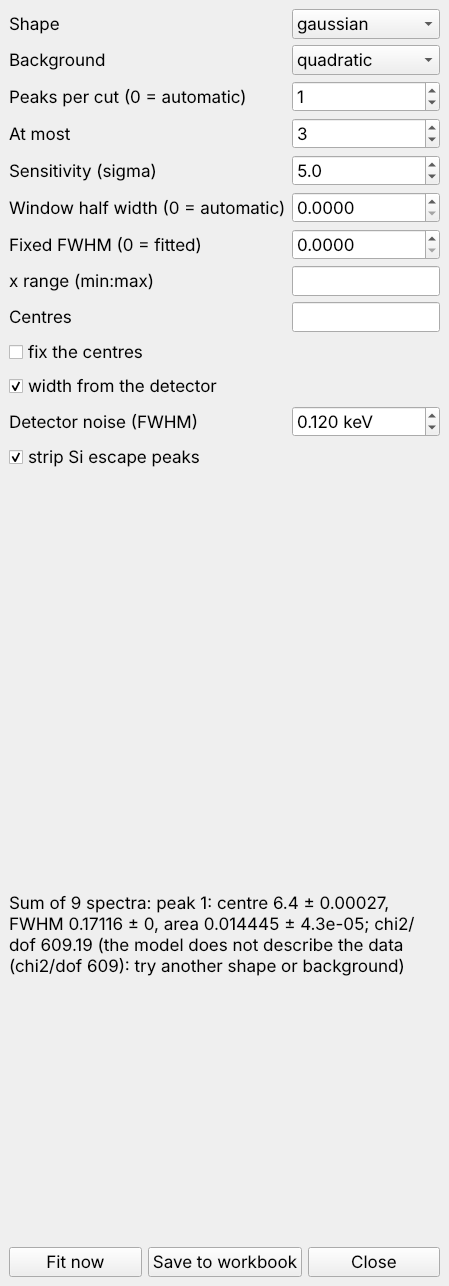
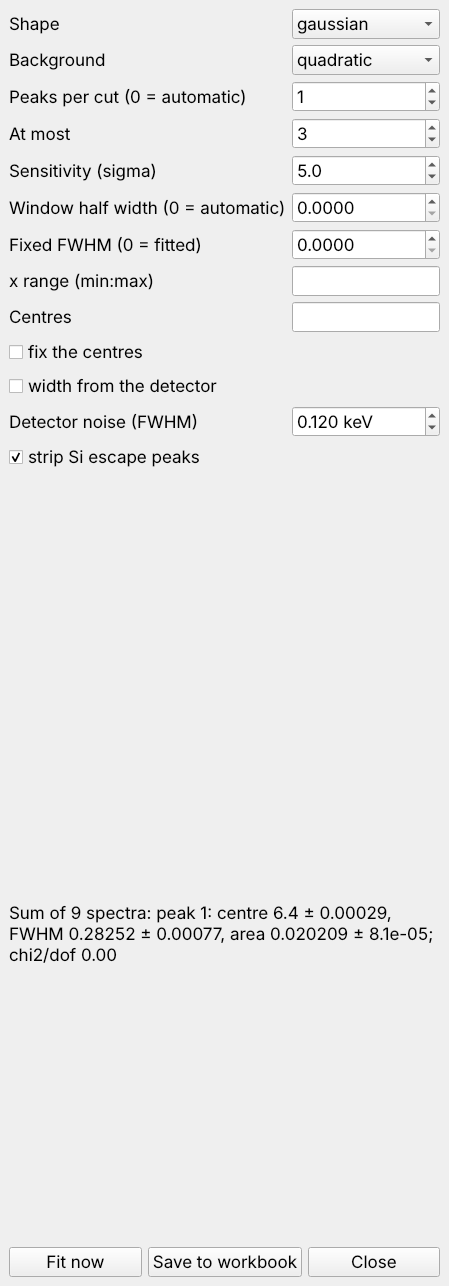
Screenshots 75 and 76: regenerated for F110 revised (#126)
main man's revision of F110 (#126: the reader's fit the default, its
width from the sum, XeRay beside it) changed the MCA Fit lines result and
its options dialog. Regenerated with tests/tools/gui_screens.py and
recorded; the other 74 matched pixel for pixel.

Claude-Session: https://claude.ai/code/session_017UNj93eCQ98icFoDfMzdiH

Changed region(s): [[0.0, 0.6843, 0.9666, 0.7776]]

diff --git a/docs/gui/screens/README.md b/docs/gui/screens/README.md
@@ -6,7 +6,7 @@ and synthetic data from `tests/synth.py` for MCA / fluorescence, the reflectivit
 (NX has no MCA data). Regenerate the whole folder with the command above; the table is rewritten, the
 Observations section is by hand and is kept.
 
-76 images, 4.9 MB, last run took 52 s.
+76 images, 4.9 MB, last run took 48 s.
 
 | File | What it shows | Data and state |
 |---|---|---|
@@ -26,7 +26,7 @@ Observations section is by hand and is kept.
 | `21_pilatus_one_frame.png` | Pilatus tab, whole window, one frame | Scan 11, frame 1 selected |
 | `21b_pilatus_tab_controls.png` | Pilatus tab page (controls above, image below) | Scan 11, frame 1 |
 | `22_pilatus_three_frames.png` | Pilatus tab with three frames selected (a movie since 2026-11-24, F69) | Scan 11, frames 1, 11, 21 selected |
-| `23_pilatus_all_frames_of_a_scan.png` | Pilatus tab with ALL frames of a long scan selected: the movie (F69; before 2026-11-24, 10 small tiles) | Scan 11: all 40 frames selected (drawing took 0.5 s offscreen) |
+| `23_pilatus_all_frames_of_a_scan.png` | Pilatus tab with ALL frames of a long scan selected: the movie (F69; before 2026-11-24, 10 small tiles) | Scan 11: all 40 frames selected (drawing took 0.4 s offscreen) |
 | `23b_pilatus_all_frames_reflectivity_series.png` | Pilatus tab with all frames of the four reflectivity scans selected | Scans 6-9: all 96 frames selected |
 | `30_reflectivity_empty.png` | The Reflectivity tab (page and its controls) with nothing loaded | No SPEC file; crop of the tab widget |
 | `31_refpatch_dialog_first_join.png` | Ref Patch window (opened by Pilatus > Ref Patch), first join | Scans 6-9 all frames; Ref Patch clicked |
